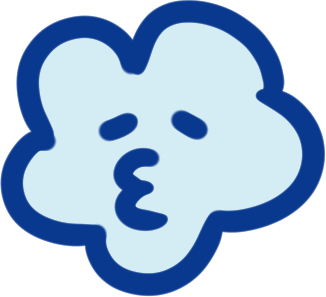
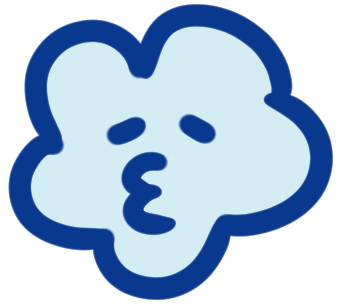
design: 포토샵 리사이징 및 캐릭터 성장 단계 최종 최적화

diff --git a/src/components/CharacterSection.tsx b/src/components/CharacterSection.tsx
@@ -267,35 +267,44 @@ const CharacterSection = () => {
                 transition={{ duration: 0.28 }}
                 className="grid grid-cols-2 md:grid-cols-4 gap-4 md:gap-5"
               >
-                {growth.map((g, i) => (
-                  <motion.div
-                    key={g.stage}
-                    initial={{ opacity: 0, y: 12 }}
-                    animate={{ opacity: 1, y: 0 }}
-                    transition={{ duration: 0.38, delay: i * 0.07 }}
-                    className="flex flex-col items-center gap-3 text-center"
-                  >
-                    {/* Timeline dot */}
-                    <div className="relative w-full flex justify-center">
-                      <div className="w-2 h-2 rounded-full bg-periwinkle/35 z-10" />
-                    </div>
+               {growth.map((g, i) => {
+  // 단계별 크기 배열 (알 -> 졸업 순서)
+  const stepSizes = ["w-[60px]", "w-[90px]", "w-[100px]", "w-[140px]"];
 
-                    <div className="w-full aspect-square max-w-[148px] mx-auto rounded-2xl overflow-hidden border border-ivory/[0.07] bg-space-900/70">
-                      <img
-                        src={g.image}
-                        alt={`${selectedRace} ${g.stage}`}
-                        className="w-full h-full object-contain p-3"
-                      />
-                    </div>
-                    <div>
-                      <p className="text-[10px] text-ivory/35">{g.age}</p>
-                      <p className="text-sm font-medium text-ivory/80">{g.stage}</p>
-                      <p className="mt-1 text-xs text-ivory/40 leading-relaxed hidden md:block">
-                        {g.body}
-                      </p>
-                    </div>
-                  </motion.div>
-                ))}
+  return (
+    <motion.div
+      key={g.stage}
+      initial={{ opacity: 0, y: 12 }}
+      animate={{ opacity: 1, y: 0 }}
+      transition={{ duration: 0.38, delay: i * 0.07 }}
+      className="flex flex-col items-center gap-3 text-center"
+    >
+      {/* 타임라인 점 (기존 코드 유지) */}
+      <div className="relative w-full flex justify-center">
+        <div className="w-2 h-2 rounded-full bg-periwinkle/35 z-10" />
+      </div>
+
+      {/* [수정 포인트] 이미지 박스: items-end를 추가해 발바닥 위치 고정 */}
+      <div className="w-full aspect-square max-w-[160px] mx-auto rounded-2xl overflow-hidden border border-ivory/[0.07] bg-space-900/70 flex items-end justify-center pb-4">
+  <img
+    src={g.image}
+    alt={`${selectedRace} ${g.stage}`}
+    /* 발바닥이 바닥에 딱 붙도록 h-auto를 유지하고 단계를 적용 */
+    className={`${stepSizes[i]} h-auto object-contain transition-all duration-300`}
+  />
+</div>
+
+      {/* 하단 텍스트 (기존 코드 유지) */}
+      <div>
+        <p className="text-[10px] text-ivory/35">{g.age}</p>
+        <p className="text-sm font-medium text-ivory/80">{g.stage}</p>
+        <p className="mt-1 text-xs text-ivory/40 leading-relaxed hidden md:block text-balance">
+          {g.body}
+        </p>
+      </div>
+    </motion.div>
+  );
+})}
               </motion.div>
             </AnimatePresence>
           </div>

diff --git a/src/index.css b/src/index.css
@@ -82,3 +82,5 @@ body::after {
   background: rgba(168, 180, 232, 0.22);
   color: #ede8df;
 }
+
+
